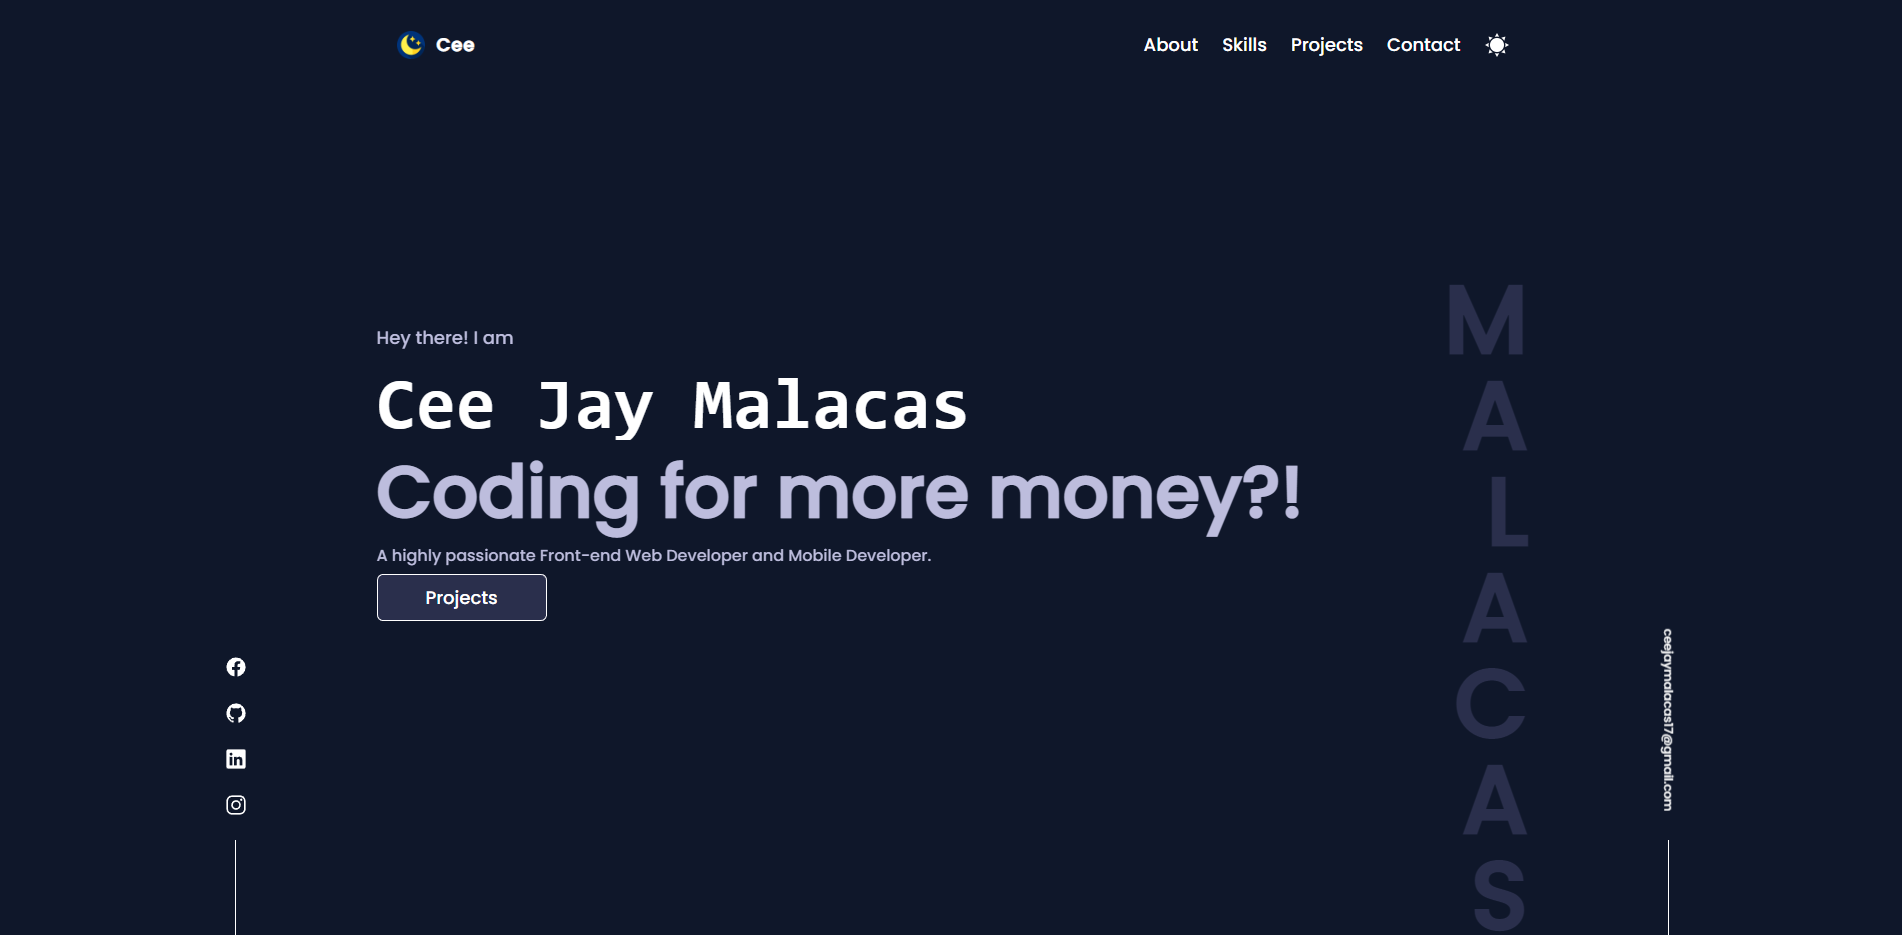
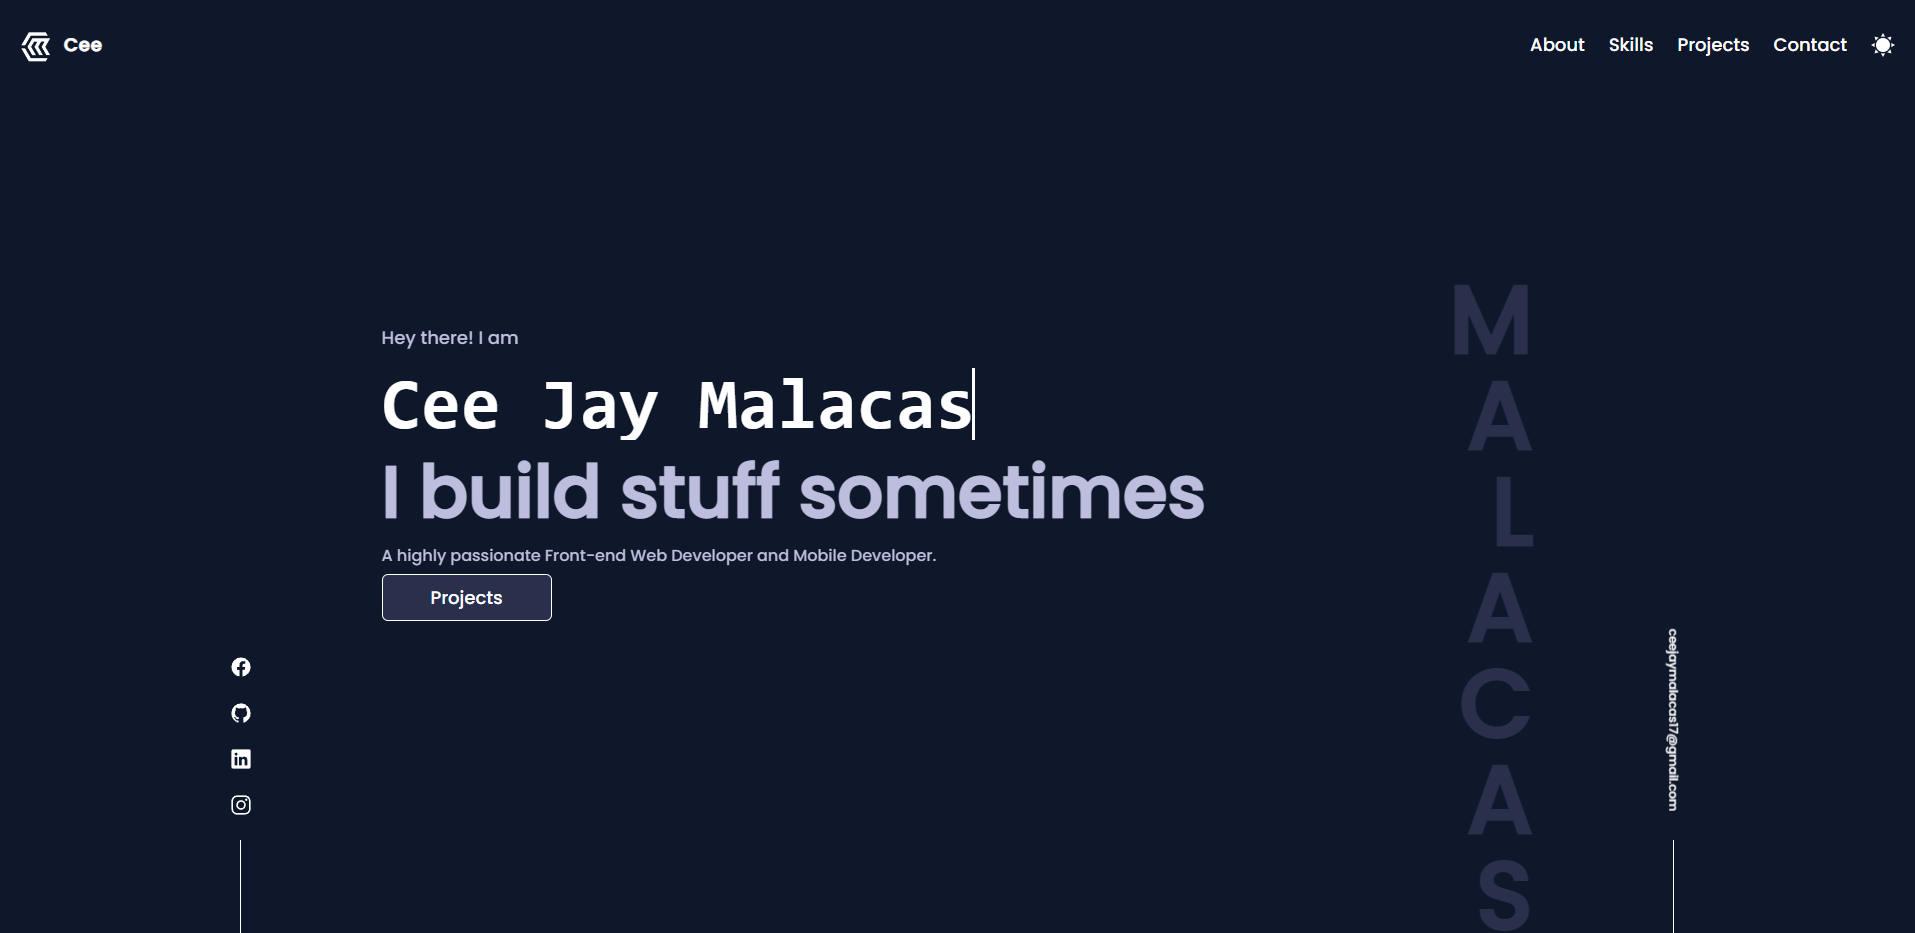
theme update

diff --git a/src/components/layouts/Header.jsx b/src/components/layouts/Header.jsx
@@ -1,26 +1,36 @@
-import tempLogo from '../../assets/images/night-mode.png'
 import menu from '../../assets/images/menu.png'
 import close from '../../assets/images/close.png'
 import cm from '../../assets/images/c.png'
+import cmb from '../../assets/images/c-black.png'
+import lightMode from '../../assets/images/sun.png'
+import darkMode from '../../assets/images/night.png'
 import { navLinks } from '../../data/data'
 import { useState } from 'react'
 import { Link } from "react-router-dom";
 import { motion, AnimatePresence } from "framer-motion"
 import { bounceIn } from '../../utils/framerMotion'
+import { useContext } from "react"
+import { Context } from '../../context/context'
 
 const Header = ({ children }) => {
     const [navOpen, setNavOpen] = useState(false)
     const body = document.querySelector('body')
+    const { updateTheme } = useContext(Context)
 
     const openNav = () => {
         setNavOpen(prevState => !prevState)
+    }
+
+    const changeColor = () => {
+        updateTheme()
     }
 
     !navOpen ? body.classList.remove('overflow-hidden') : body.classList.add('overflow-hidden')
 
     return (
         <>
-            <header className="fixed top-0 left-0 right-0 bg-mainBg z-50 w-full mx-auto px-5  md:px-10 lg:px-12 xl:px-0">
+            <header className={`${localStorage.theme === 'true' ? `bg-white text-black` : `bg-mainBg text-secondaryTxt`} 
+            fixed top-0 left-0 right-0 bg-mainBg z-50 w-full mx-auto px-5  md:px-10 lg:px-12 xl:px-0`}>
 
                 <div className="flex justify-between py-8 px-5 z-40 ">
                     <motion.div
@@ -29,9 +39,10 @@ const Header = ({ children }) => {
                         animate="onscreen"
                     >
                         <Link to='/' className="flex gap-3 ">
-                            <img className='w-8 h-full' src={cm} />
-                            <h2 className="font-bold text-lg tracking-wider text-mainTxt hover:text-gray-700 
-                                hover:-translate-y-1 transition-all duration-300 delay-75 ">Cee</h2>
+                            <img className='w-8 h-full' src={localStorage.theme === 'false' ? cm : cmb} />
+                            <h2 className={`${localStorage.theme === 'false' ? 'text-mainTxt' : 'text-black'}
+                            font-bold text-lg tracking-wider hover:text-gray-700 
+                                hover:-translate-y-1 transition-all duration-300 delay-75 `}>Cee</h2>
                         </Link>
                     </motion.div>
                     <motion.button
@@ -49,10 +60,13 @@ const Header = ({ children }) => {
                         <ul className="flex items-center justify-center w-full text-lg gap-6">
                             {navLinks.map((nav, indx) => {
                                 if (nav.type === 'lightMode') {
-                                    return <li key={indx} className="cursor-pointer hover:-translate-y-1 transition-all duration-300 delay-75"><img src={nav.url} /></li>
+                                    return <li key={indx} className="cursor-pointer hover:-translate-y-1 transition-all duration-300 delay-75">
+                                        <img src={localStorage.theme === 'false' ? lightMode : darkMode}
+                                            onClick={changeColor} />
+                                    </li>
                                 }
-                                return <Link to={nav.url} key={indx} className="text-mainTxt hover:text-gray-700 
-                                hover:-translate-y-1 transition-all duration-300 delay-75">{nav.title}</Link>
+                                return <Link to={nav.url} key={indx} className={`${localStorage.theme === 'false' ? 'text-mainTxt' : 'text-black'} hover:text-gray-700 
+                                hover:-translate-y-1 transition-all duration-300 delay-75`}>{nav.title}</Link>
                             })}
                         </ul>
                     </motion.nav>

diff --git a/src/components/sections/Intro.jsx b/src/components/sections/Intro.jsx
@@ -1,5 +1,5 @@
 import { motion } from "framer-motion"
-import { staggerContainer, fade, spanFade } from "../../utils/framerMotion"
+import { fade, spanFade } from "../../utils/framerMotion"
 import { lastName } from '../../data/data'
 import { Link } from "react-router-dom"
 
@@ -8,24 +8,23 @@ const Intro = () => {
   const name = lastName.split('')
 
   return (
-    <motion.section variants={staggerContainer(0.4, 1.3)} initial="offscreen" animate="onscreen"
-      className="relative w-full flex flex-col items-start min-h-screen justify-center mb-20">
-      <motion.p variants={fade(0.8, .3)} className="text-lg mb-4 text-secondaryTxt z-20 ">Hey there! I am</motion.p>
-      <motion.h1 variants={fade(0.8, 0)} className="text-4xl font-bold mb-4 lg:text-7xl text-mainTxt z-20 typing-demo">Cee Jay Malacas</motion.h1>
-      <motion.h2 variants={fade(0.8, .5)} className="text-3xl lg:text-7xl font-bold mb-4 z-20 ">I build stuff sometimes</motion.h2>
-      <motion.p variants={fade(0.8, .7)} className="text-base font-thin mb-4  z-20 ">A highly passionate Front-end Web Developer and Mobile Developer.</motion.p>
+    <section className="relative w-full flex flex-col items-start min-h-screen justify-center mb-20">
+      <motion.p variants={fade(0.8, .3)} initial="offscreen" animate="onscreen" className="text-lg mb-4 text-secondaryTxt z-20 ">Hey there! I am</motion.p>
+      <motion.h1 variants={fade(0.8, 0)} initial="offscreen" animate="onscreen" className="text-4xl font-bold mb-4 lg:text-7xl text-mainTxt z-20 typing-demo">Cee Jay Malacas</motion.h1>
+      <motion.h2 variants={fade(0.8, .5)} initial="offscreen" animate="onscreen" className="text-3xl lg:text-7xl font-bold mb-4 z-20 ">I build stuff sometimes</motion.h2>
+      <motion.p variants={fade(0.8, .7)} initial="offscreen" animate="onscreen" className="text-base font-thin mb-4  z-20 ">A highly passionate Front-end Web Developer and Mobile Developer.</motion.p>
       <Link to='/projects'>
-        <motion.span variants={fade(0.8, .7)}
+        <motion.span variants={fade(0.8, .7)} initial="offscreen" animate="onscreen"
           className="z-20 px-12 py-2.5 text-lg rounded-md border-[0.1rem] bg-btnbg border-mainTxt text-mainTxt
        hover:bg-btnHvr transition-all duration-300 delay-75">Projects
         </motion.span>
       </Link>
       <p className="absolute -right-2 md:-bottom-2 lg:-bottom-2 lg:right-0 text-8xl font-bold text-btnbg flex flex-col justify-end items-end uppercase z-0">
         {name.map((letter, idx) => (
-          <motion.span variants={spanFade(idx)} key={idx}>{letter}</motion.span>
+          <motion.span variants={spanFade(idx)} initial="offscreen" animate="onscreen" key={idx}>{letter}</motion.span>
         ))}
       </p>
-    </motion.section>
+    </section>
   )
 }
 

diff --git a/src/App.jsx b/src/App.jsx
@@ -7,22 +7,26 @@ import SkillsPage from "./pages/SkillsPage"
 import ProjectsPage from "./pages/ProjectsPage"
 import ContactPage from "./pages/ContactPage"
 import SubFooter from './components/sections/SubFooter'
+import { Context } from "./context/context"
+import { useContext } from "react"
 
 function App() {
 
+  const { updateTheme, theme } = useContext(Context)
+
   return (
-    <div className="bg-mainBg w-full text-secondaryTxt">
-      <Header>
-        <Routes>
-          <Route path="/" element={<Main />} />
-          <Route path="/about" element={<AboutPage />} />
-          <Route path="/skills" element={<SkillsPage />} />
-          <Route path="/projects" element={<ProjectsPage />} />
-          <Route path="/contact" element={<ContactPage />} />
-        </Routes>
-      </Header>
-      <Navs />
-      <SubFooter />
+    <div className={` w-full ${localStorage.theme === 'true' ? `bg-white text-black` : `bg-mainBg text-secondaryTxt` }`}>
+        <Header>
+          <Routes>
+            <Route path="/" element={<Main />} />
+            <Route path="/about" element={<AboutPage />} />
+            <Route path="/skills" element={<SkillsPage />} />
+            <Route path="/projects" element={<ProjectsPage />} />
+            <Route path="/contact" element={<ContactPage />} />
+          </Routes>
+        </Header>
+        <Navs />
+        <SubFooter />
     </div>
   )
 }

diff --git a/src/data/data.jsx b/src/data/data.jsx
@@ -1,5 +1,6 @@
 import { IoLogoFacebook, IoLogoLinkedin, IoLogoGithub, IoLogoInstagram } from "react-icons/io5";
 import lightMode from '../assets/images/sun.png'
+import darkMode from '../assets/images/night.png'
 import js from '../assets/images/js.png'
 import react from '../assets/images/react.svg'
 import vite from '../assets/images/vite.svg'
@@ -36,7 +37,7 @@ export const projects = [
     },
     {
         title: 'Elder Armor USA',
-        description: 'Tic Tac Toe',
+        description: 'Elder Armor is Hip Protector online store for elder people in US.',
         stackTech: ['WordPress', 'Elementor', 'WooCommerce', 'PHP'],
         liveUrl: 'https://elderarmorusa.com/',
         githubRepo: '',
@@ -162,7 +163,6 @@ export const navLinks = [
     },
     {
         type: 'lightMode',
-        url: lightMode,
     },
 ];
 

diff --git a/src/components/sections/Contact.jsx b/src/components/sections/Contact.jsx
@@ -17,7 +17,7 @@ const Contact = ({ pTop }) => {
                 <p className="text-center text-whiteSecondary mb-12 ">
                     Currently, I am looking for opportunities and accepting freelance projects. If you think I am a good asset, kindly send me a message.
                 </p>
-                <a href="https://mail.google.com/mail/u/0/?to=ceejaymalacas17@gmail.com&su=&body=&fs=1&tf=cm" target="_blank" className="cursor-pointer px-12 py-2.5 text-lg rounded-md 
+                <a href="mailto:ceejaymalacas17@gmail.com" target="_blank" className="cursor-pointer px-12 py-2.5 text-lg rounded-md 
                 border-[0.1rem] border-mainTxt text-mainTxt bg-btnbg 
                 hover:bg-btnHvr hover:-translate-y-1 transition-all duration-300 delay-75">Say Hello !</a>
             </div>

diff --git a/src/context/context.jsx b/src/context/context.jsx
@@ -1,0 +1,22 @@
+import React, { createContext, useEffect, useState } from 'react'
+
+export const Context = createContext({});
+
+export const ContextProvider = ({children}) => {
+   const [theme, setTheme] = useState(!localStorage.getItem('theme') ? '' : JSON.parse(localStorage.getItem('theme')))
+
+   const updateTheme = () => {
+    localStorage.setItem('theme', JSON.stringify(theme));
+    setTheme(prevState => !prevState)
+   }
+
+// useEffect(() => {
+//     console.log(theme)
+// }, [theme])
+
+  return (
+    <Context.Provider value={{theme, updateTheme}}>
+        {children}
+    </Context.Provider>
+  )
+}

diff --git a/src/main.jsx b/src/main.jsx
@@ -2,12 +2,15 @@ import React from 'react'
 import ReactDOM from 'react-dom/client'
 import { BrowserRouter } from "react-router-dom";
 import App from './App'
+import { ContextProvider } from './context/context';
 import './index.css'
 
 ReactDOM.createRoot(document.getElementById('root')).render(
   <React.StrictMode>
     <BrowserRouter>
-      <App />
+      <ContextProvider>
+        <App />
+      </ContextProvider>
     </BrowserRouter>
   </React.StrictMode>,
 )

diff --git a/src/utils/framerMotion.js b/src/utils/framerMotion.js
@@ -1,13 +1,3 @@
-export const staggerContainer = (staggerChildren, delayChildren) => ({
-	offscreen: {},
-	onscreen: {
-		transition: {
-			staggerChildren,
-			delayChildren,
-		},
-	},
-});
-
 export const fade = (duration, delay) => ({
 	offscreen: { opacity: 0 },
 	onscreen: {
